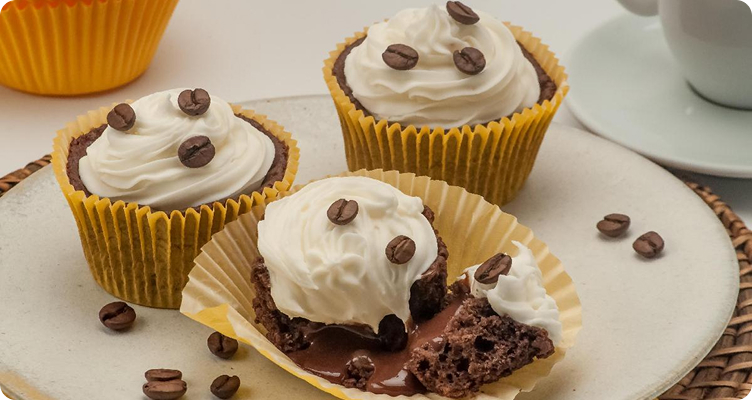
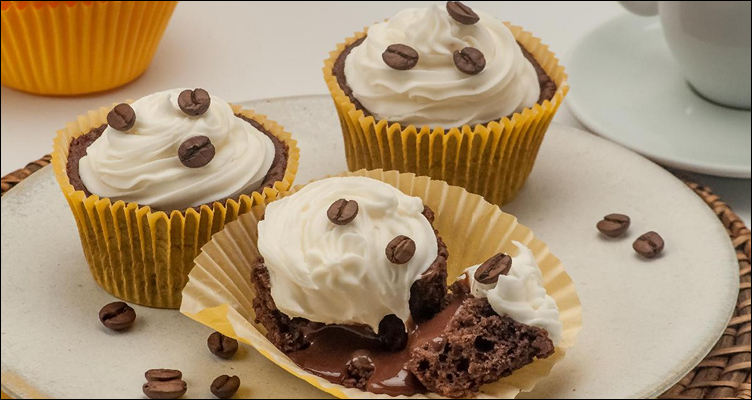
Ajuste de fontes e posições

Changed region(s): [[0.0, 0.96, 1.0, 1.0], [0.9787, 0.0, 1.0, 0.03], [0.0, 0.0, 0.0306, 0.03]]

diff --git a/style.css b/style.css
@@ -1,0 +1,35 @@
+:root{
+    font-family: "Alice", sans-serif;
+    line-height: 150%;
+}
+
+body {
+    background-image: url(img/bg-image.jpg);
+    background-size: cover;
+}
+
+#page {
+    box-sizing: border-box;
+    padding: 24px;
+    width: 800px;
+    background-color: #F0E8C2;
+    border-radius: 24px;
+    margin: 48px auto;
+}
+
+img{
+    border-radius: 16px;
+}
+
+h1{
+    line-height: 140%;
+    font-size: 40px;
+}
+
+h2{
+    font-size: 24px;
+}
+
+h1, h2 {
+    color: #291B1A
+}

diff --git a/index.html b/index.html
@@ -3,6 +3,10 @@
   <head>
     <meta charset="UTF-8" />
     <meta name="viewport" content="width=device-width, initial-scale=1.0" />
+    <link rel="stylesheet" href="style.css"/>
+    <link rel="preconnect" href="https://fonts.googleapis.com">
+<link rel="preconnect" href="https://fonts.gstatic.com" crossorigin>
+<link href="https://fonts.googleapis.com/css2?family=Alice&display=swap" rel="stylesheet">
     <title>Página de receita</title>
   </head>
   <body>